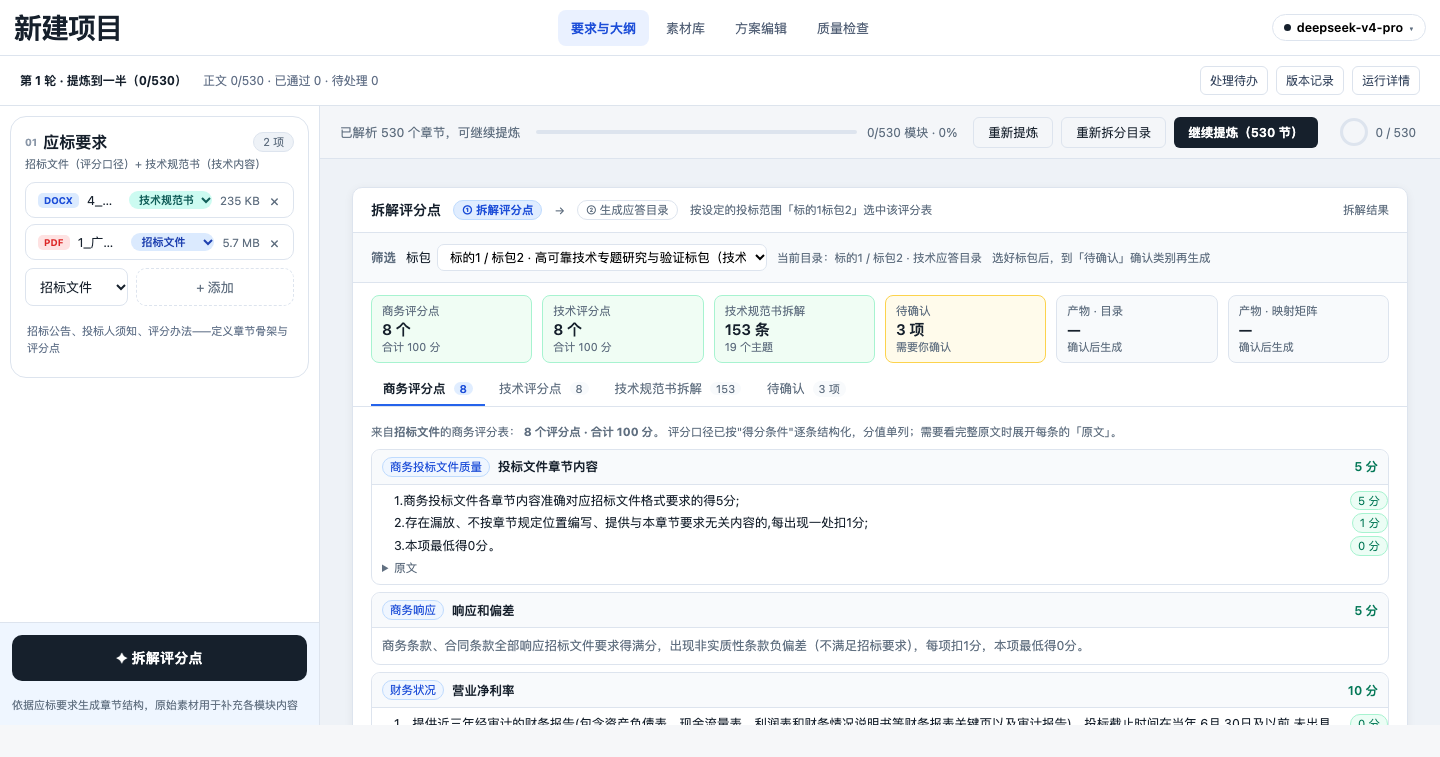
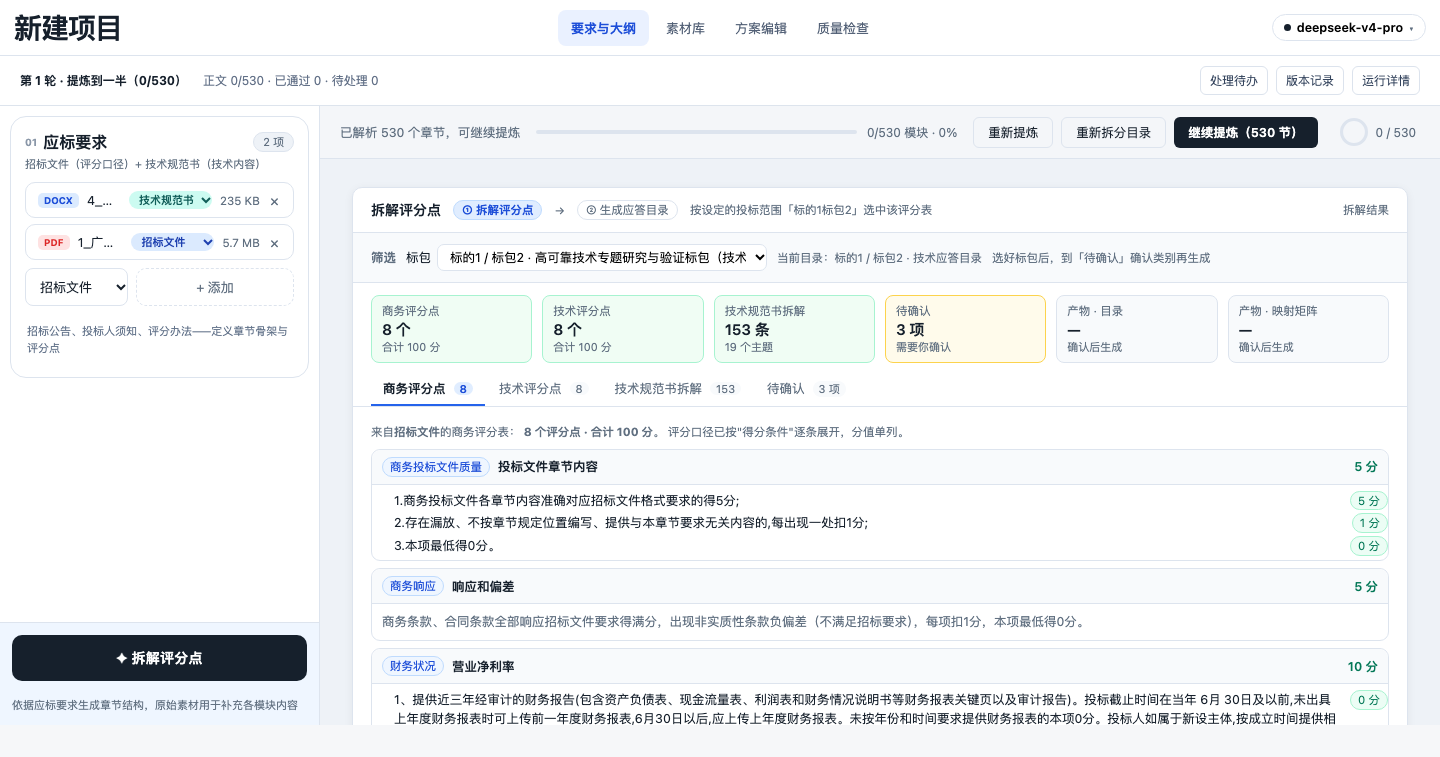
fix(panel): 评分口径直接结构化展示，去掉「原文」折叠
用户反馈：「不要原文折叠，老是搞这么复杂干什么？就直接把评分口径的内容结构化展示出来就可以了」

## 改法
- 删除评分点卡片里的 `<details>原文</details>` 折叠及其样式（`.pc-raw`）；
- 说明文案不再提「展开原文」；
- 结构保持不变：卡片头 = 评分因素 + 详细评审项 + 分值；正文 = 逐条得分条件 + 分值标签；
  解析不出多条款的（单句规则）就直接整段展示。

## 验证（CDP 真实面板）
```
16 张评分点卡片 ｜ 折叠元素 0 个 ｜ 页面已无"原文"字样
样例：商务投标文件质量 / 投标文件章节内容 / 5 分
      1. …准确对应招标文件格式要求的得5分;   [5 分]
      2. …每出现一处扣1分;                  [1 分]
      3. 本项最低得0分。                    [0 分]
__bootErrors = []
```
截图：`docs/screenshots/criterion-structured.png`
后端 748 passed / 前端 102 passed；资产版本 20261014-v33。

Changed region(s): [[0.25, 0.7292, 0.9688, 0.9723], [0.5625, 0.5469, 0.7812, 0.5773], [0.9375, 0.7596, 0.9688, 0.8203]]

diff --git a/frontend/assets/mode-outline.js b/frontend/assets/mode-outline.js
@@ -2,14 +2,14 @@
    抽成模块的目的：两段内联脚本有 90 个同名顶层标识符 + 18 个重复 DOM id，
    同页拼接必然互相覆盖；各自成为一个模块即各自一个作用域。
    本文件在抽取时**未改任何逻辑**。 */
-import { api } from './api.js?v=20261014-v32';
+import { api } from './api.js?v=20261014-v33';
 // 顶栏（项目名旁边那行「第 N 轮 · ...」）由共享壳 workspace.js 渲染。这里要把它
 // 改成**页面自己的真实状态**：checkpoint 的 stage 在提炼中/提炼完成后都停在
 // outline_review，只看它的话顶栏永远显示"待确认目录"（实测就是这个问题）。
 import { workspace, renderWorkspaceChrome,
          REQUIREMENT_ROLES, SELECTABLE_REQUIREMENT_ROLES, ROLE_LABEL_SHARED, ROLE_HINT_SHARED,
          roleMismatchWarning, inferRoleFromFilename,
-       } from './workspace.js?v=20261014-v32';
+       } from './workspace.js?v=20261014-v33';
 import { buildOutlineTree, isOrphanedRun, activeStages, instructionDirty, newOutlineId, outlineSubtreeRange,
          moveOutlineNode, indentOutlineNode, outdentOutlineNode,
          removeOutlineSubtree, insertSiblingAfter, insertChildOf,
@@ -23,7 +23,7 @@ import { buildOutlineTree, isOrphanedRun, activeStages, instructionDirty, newOut
          // 章节状态投影：素材库 / 方案编辑 / 覆盖矩阵共用同一份判定（不再各算各的）
          chapterStage, chapterBadges, filterChapters, chapterFilterCounts,
          CHAPTER_STAGE_LABELS, evidenceByChapter, expandVisibleWithAncestors
-       } from './workspace-model.mjs?v=20261014-v32';
+       } from './workspace-model.mjs?v=20261014-v33';
 
 const params = new URLSearchParams(location.search);
 // projectId **只取数字部分**：链接被误写成 `?projectId=19**(Cmd+Shift+R)`（连带说明文字）
@@ -109,7 +109,7 @@ document.head.insertAdjacentHTML('beforeend', `<style>
 // 左栏章节树：行标记与「方案编辑」共用一份（2026-10-13 左栏归一）。
 // 此前两侧各拼一套（.ot-row / .doc-outline-item），数据投影虽已共用，
 // 但标记重复维护会漂移（workspace-model.mjs 注释里记着 "#undefined" 那次）。
-import { chapterNode, chapterBadgesHtml as sharedBadgesHtml } from './chapter-tree.mjs?v=20261014-v32';
+import { chapterNode, chapterBadgesHtml as sharedBadgesHtml } from './chapter-tree.mjs?v=20261014-v33';
 const blocksEmpty = document.getElementById('blocks-empty');
 const sidebarToc  = document.getElementById('sidebar-toc');
 const ringFill    = document.getElementById('ring-fill');
@@ -2832,8 +2832,6 @@ async function openSplitReport({ auto = false, tab = '' } = {}) {
         <li><span class="pc-text">${escapeHtml(c.text)}</span>${
           c.score ? `<span class="pc-band ${c.cap ? 'cap' : ''}">${escapeHtml(c.score)}</span>` : ''}</li>`).join('')}
       </ul>` : `<div class="pc-body">${escapeHtml(pc.raw || '—')}</div>`}
-      ${pc.clauses.length > 1 ? `<details class="pc-raw"><summary>原文</summary>
-        <div class="pc-body">${escapeHtml(pc.raw)}</div></details>` : ''}
     </div>`;
   };
 
@@ -2844,7 +2842,7 @@ async function openSplitReport({ auto = false, tab = '' } = {}) {
     return `
       <div class="sr-note">来自<b>招标文件</b>的${catLabel}评分表：
         <b>${stat.count} 个评分点 · 合计 ${stat.score} 分</b>。
-        评分口径已按"得分条件"逐条结构化，分值单列；需要看完整原文时展开每条的「原文」。</div>
+        评分口径已按"得分条件"逐条展开，分值单列。</div>
       ${(stat.items || []).map(critCard).join('')}`;
   };
 
@@ -3102,9 +3100,6 @@ async function openSplitReport({ auto = false, tab = '' } = {}) {
     border-radius:999px;padding:0 7px;white-space:nowrap}
   .pc-band.cap{color:#92400e;background:#fffbeb;border-color:#fcd34d}
   .pc-body{padding:8px 10px;font-size:12.5px;color:var(--muted);line-height:1.6;word-break:break-word}
-  .pc-raw{margin:0 10px 8px}
-  .pc-raw>summary{cursor:pointer;font-size:11.5px;color:var(--muted)}
-  .pc-raw .pc-body{padding:6px 0}
   .sr-tab.disabled{opacity:.45;cursor:not-allowed}
   .sr-scope-chip{font-size:11.5px;font-weight:400;color:#1d4ed8;background:#eff6ff;
     border:1px solid #bfdbfe;border-radius:999px;padding:1px 8px;margin-left:4px}

diff --git a/frontend/workbench.html b/frontend/workbench.html
@@ -4,7 +4,7 @@
     <meta charset="UTF-8" />
     <meta name="viewport" content="width=device-width, initial-scale=1.0" />
     <title>智能应标 · 材料撰写</title>
-    <link rel="stylesheet" href="./assets/styles.css?v=20261014-v32" />
+    <link rel="stylesheet" href="./assets/styles.css?v=20261014-v33" />
     <style>
       /* Outline pane */
       .workspace-shell .outline-pane {
@@ -2055,7 +2055,7 @@
     </style>
     <!-- Markdown 渲染（用于预览模式） -->
     <script src="https://cdn.jsdelivr.net/npm/marked@12.0.0/marked.min.js"></script>
-  <link rel="stylesheet" href="./assets/workspace.css?v=20261014-v32" />
+  <link rel="stylesheet" href="./assets/workspace.css?v=20261014-v33" />
   </head>
   <body>
     <div class="workspace-shell">
@@ -2488,18 +2488,18 @@
       </main>
     </div>
 
-    <script type="module" src="./assets/workbench.js?v=20261014-v32"></script>
+    <script type="module" src="./assets/workbench.js?v=20261014-v33"></script>
     <script type="module">
-      import { GenerateSession } from './assets/generate-session.js?v=20261014-v32';
-      import { initContextPanel } from './assets/context-panel.js?v=20261014-v32';
-      import { api } from './assets/api.js?v=20261014-v32';
-      import { request as workspaceRequest, refreshWorkspace, workspace, confirmChapterAction } from './assets/workspace.js?v=20261014-v32';
+      import { GenerateSession } from './assets/generate-session.js?v=20261014-v33';
+      import { initContextPanel } from './assets/context-panel.js?v=20261014-v33';
+      import { api } from './assets/api.js?v=20261014-v33';
+      import { request as workspaceRequest, refreshWorkspace, workspace, confirmChapterAction } from './assets/workspace.js?v=20261014-v33';
       // 提炼字段枚举 + 素材依据的**渲染片段**与 project-init 共用（见 workspace-model.mjs 注释）：
       // 性质徽标与出处行的实现在那边只有一份，两个页面不再各写一套（曾经因此漂移出
       // "每行显示 #undefined"）。
       import { CONSTRAINT_LEVELS, constraintLevelLabel,
                evidenceKindBadgeHtml, evidenceSourceLineHtml, evidenceSnippet,
-               chapterStage, CHAPTER_STAGE_LABELS } from './assets/workspace-model.mjs?v=20261014-v32';
+               chapterStage, CHAPTER_STAGE_LABELS } from './assets/workspace-model.mjs?v=20261014-v33';
       initContextPanel();
 
       // 素材抽屉：默认收起（写作时右栏就是正文本身），点工具栏「素材 n ▸」打开；
@@ -5563,6 +5563,6 @@
       })();
     })();
     </script>
-  <script type="module" src="./assets/workspace.js?v=20261014-v32"></script>
+  <script type="module" src="./assets/workspace.js?v=20261014-v33"></script>
   </body>
 </html>

diff --git a/frontend/project-init.html b/frontend/project-init.html
@@ -4,7 +4,7 @@
     <meta charset="UTF-8" />
     <meta name="viewport" content="width=device-width, initial-scale=1.0" />
     <title>AiBidding · Workbench Init State</title>
-    <link rel="stylesheet" href="./assets/styles.css?v=20261014-v32" />
+    <link rel="stylesheet" href="./assets/styles.css?v=20261014-v33" />
     <style>
 /* ── 三栏布局 ── */
 .init-layout {
@@ -889,7 +889,7 @@ body[data-view="matching"] .match-detail { display: block; }
   background: #eff6ff;
 }
     </style>
-  <link rel="stylesheet" href="./assets/workspace.css?v=20261014-v32" />
+  <link rel="stylesheet" href="./assets/workspace.css?v=20261014-v33" />
   </head>
   <body data-view="outline">
     <div class="workspace-shell">
@@ -1085,14 +1085,14 @@ body[data-view="matching"] .match-detail { display: block; }
     </div>
 
     <script type="module">
-import { api } from './assets/api.js?v=20261014-v32';
+import { api } from './assets/api.js?v=20261014-v33';
 // 顶栏（项目名旁边那行「第 N 轮 · ...」）由共享壳 workspace.js 渲染。这里要把它
 // 改成**页面自己的真实状态**：checkpoint 的 stage 在提炼中/提炼完成后都停在
 // outline_review，只看它的话顶栏永远显示"待确认目录"（实测就是这个问题）。
 import { workspace, renderWorkspaceChrome,
          REQUIREMENT_ROLES, ROLE_LABEL_SHARED, ROLE_HINT_SHARED,
          roleMismatchWarning, inferRoleFromFilename,
-       } from './assets/workspace.js?v=20261014-v32';
+       } from './assets/workspace.js?v=20261014-v33';
 import { buildOutlineTree, isOrphanedRun, activeStages, instructionDirty, newOutlineId, outlineSubtreeRange,
          moveOutlineNode, indentOutlineNode, outdentOutlineNode,
          removeOutlineSubtree, insertSiblingAfter, insertChildOf,
@@ -1106,7 +1106,7 @@ import { buildOutlineTree, isOrphanedRun, activeStages, instructionDirty, newOut
          // 章节状态投影：素材库 / 方案编辑 / 覆盖矩阵共用同一份判定（不再各算各的）
          chapterStage, chapterBadges, filterChapters, chapterFilterCounts,
          CHAPTER_STAGE_LABELS, evidenceByChapter, expandVisibleWithAncestors
-       } from './assets/workspace-model.mjs?v=20261014-v32';
+       } from './assets/workspace-model.mjs?v=20261014-v33';
 
 const params = new URLSearchParams(location.search);
 const projectId = params.get('projectId');
@@ -4945,6 +4945,6 @@ bindMatchDetailActions();
   });
 })();
     </script>
-  <script type="module" src="./assets/workspace.js?v=20261014-v32"></script>
+  <script type="module" src="./assets/workspace.js?v=20261014-v33"></script>
   </body>
 </html>

diff --git a/frontend/three-mode.html b/frontend/three-mode.html
@@ -4,7 +4,7 @@
     <meta charset="UTF-8" />
     <meta name="viewport" content="width=device-width, initial-scale=1.0" />
     <title>AiBidding · Workbench Init State</title>
-    <link rel="stylesheet" href="./assets/styles.css?v=20261014-v32" />
+    <link rel="stylesheet" href="./assets/styles.css?v=20261014-v33" />
     <style>
 /* ── 三栏布局 ── */
 .init-layout {
@@ -3177,7 +3177,7 @@ body[data-view="matching"] .match-detail { display: block; }
   body[data-view="editor"] .ws-editor-layout { flex: 1 1 auto; min-height: 0; }
 
 </style>
-  <link rel="stylesheet" href="./assets/workspace.css?v=20261014-v32" />
+  <link rel="stylesheet" href="./assets/workspace.css?v=20261014-v33" />
   </head>
   <body data-view="outline" data-modes="outline,matching,editor">
     <div class="workspace-shell">
@@ -3866,16 +3866,16 @@ body[data-view="matching"] .match-detail { display: block; }
         if (skel) skel.hidden = true;
       }, 6000);
     </script>
-    <script type="module" src="./assets/workbench.js?v=20261014-v32"></script>
-    <script type="module" src="./assets/mode-dispatch.js?v=20261014-v32"></script>
+    <script type="module" src="./assets/workbench.js?v=20261014-v33"></script>
+    <script type="module" src="./assets/mode-dispatch.js?v=20261014-v33"></script>
     <!-- 动态 import：失败可捕获并上报（静态 import 失败无法捕获，会让整页静默不执行） -->
     <script type="module">
-      for (const mod of ['./assets/mode-outline.js?v=20261014-v32',
-                        './assets/mode-editor.js?v=20261014-v32']) {
+      for (const mod of ['./assets/mode-outline.js?v=20261014-v33',
+                        './assets/mode-editor.js?v=20261014-v33']) {
         try { await import(mod); }
         catch (err) { window.__bootErrors.push(`模块加载失败 ${mod}：${err?.message || err}`); }
       }
     </script>
-  <script type="module" src="./assets/workspace.js?v=20261014-v32"></script>
+  <script type="module" src="./assets/workspace.js?v=20261014-v33"></script>
   </body>
 </html>

diff --git a/frontend/assets/mode-editor.js b/frontend/assets/mode-editor.js
@@ -2,12 +2,12 @@
    抽成模块的目的：两段内联脚本有 90 个同名顶层标识符 + 18 个重复 DOM id，
    同页拼接必然互相覆盖；各自成为一个模块即各自一个作用域。
    本文件在抽取时**未改任何逻辑**。 */
-import { GenerateSession } from './generate-session.js?v=20261014-v32';
+import { GenerateSession } from './generate-session.js?v=20261014-v33';
 // 左栏章节树：与「要求与大纲 / 素材库」共用一份行标记（2026-10-13 左栏归一）
-import { chapterNode, renderChapterTree } from './chapter-tree.mjs?v=20261014-v32';
-import { initContextPanel } from './context-panel.js?v=20261014-v32';
-import { api } from './api.js?v=20261014-v32';
-import { request as workspaceRequest, refreshWorkspace, workspace, confirmChapterAction } from './workspace.js?v=20261014-v32';
+import { chapterNode, renderChapterTree } from './chapter-tree.mjs?v=20261014-v33';
+import { initContextPanel } from './context-panel.js?v=20261014-v33';
+import { api } from './api.js?v=20261014-v33';
+import { request as workspaceRequest, refreshWorkspace, workspace, confirmChapterAction } from './workspace.js?v=20261014-v33';
 
 // ── 本章要求 bar 的应答条目缓存 ──────────────────────────────
 // 必须**声明在模块最前面**：它原本声明在文件中部，而模块之间存在循环依赖
@@ -20,7 +20,7 @@ let responseItemsByBlock = {};
 // "每行显示 #undefined"）。
 import { CONSTRAINT_LEVELS, constraintLevelLabel,
          evidenceKindBadgeHtml, evidenceSourceLineHtml, evidenceSnippet,
-         chapterStage, CHAPTER_STAGE_LABELS } from './workspace-model.mjs?v=20261014-v32';
+         chapterStage, CHAPTER_STAGE_LABELS } from './workspace-model.mjs?v=20261014-v33';
 initContextPanel();
 
 // 素材抽屉：默认收起（写作时右栏就是正文本身），点工具栏「素材 n ▸」打开；

diff --git a/frontend/assets/workbench.js b/frontend/assets/workbench.js
@@ -1,12 +1,12 @@
-import {workspace, subscribe, refreshWorkspace, workspaceUrl, confirmChapterAction, openDialog, showHistory, statusLabels, esc} from './workspace.js?v=20261014-v32';
+import {workspace, subscribe, refreshWorkspace, workspaceUrl, confirmChapterAction, openDialog, showHistory, statusLabels, esc} from './workspace.js?v=20261014-v33';
 // 章节状态/依据徽标与「素材库」共用一份投影（同一棵目录树，四个环节都一样）
-import {chapterBadges, parseEvidence} from './workspace-model.mjs?v=20261014-v32';
+import {chapterBadges, parseEvidence} from './workspace-model.mjs?v=20261014-v33';
 // 左栏章节树：**三个模式共用一份**行标记（2026-10-13 归一）。
 // 此前编辑器侧自己拼 `.doc-outline-item`、大纲侧拼 `.ot-row`，是两套实现；
 // 数据投影本就共用（workspace-model），这里把标记也收敛掉。
 // 行上仍保留 `doc-outline-item` 类与 data-block-id 属性，兼容 mode-editor.js 里
 // 既有的 10 处选择器（改动面最小化）。
-import {chapterNode, renderChapterTree, chapterBadgesHtml} from './chapter-tree.mjs?v=20261014-v32';
+import {chapterNode, renderChapterTree, chapterBadgesHtml} from './chapter-tree.mjs?v=20261014-v33';
 // 左栏树的**唯一宿主**：由 mode-dispatch 在模式切换时把 #blocks-list 搬到当前模式的
 // 左栏位置。归一前这里是 `.doc-outline`，与大纲侧 `#blocks-list` 各渲一棵（实测
 // .ot-node 有 120 个 = 两棵各 60）。动态解析而不是加载时捕获，就是为了让宿主可搬。

diff --git a/frontend/diff-review.html b/frontend/diff-review.html
@@ -4,8 +4,8 @@
     <meta charset="UTF-8" />
     <meta name="viewport" content="width=device-width, initial-scale=1.0" />
     <title>AiBidding · Diff Review</title>
-    <link rel="stylesheet" href="./assets/styles.css?v=20261014-v32" />
-  <link rel="stylesheet" href="./assets/workspace.css?v=20261014-v32" />
+    <link rel="stylesheet" href="./assets/styles.css?v=20261014-v33" />
+  <link rel="stylesheet" href="./assets/workspace.css?v=20261014-v33" />
   </head>
   <body>
     <div class="workspace-shell">
@@ -98,7 +98,7 @@
     </div>
 
     <script type="module">
-      import { api } from './assets/api.js?v=20261014-v32';
+      import { api } from './assets/api.js?v=20261014-v33';
 
       const params    = new URLSearchParams(location.search);
       const projectId = params.get('projectId');
@@ -324,6 +324,6 @@
 
       loadRevisions();
     </script>
-  <script type="module" src="./assets/workspace.js?v=20261014-v32"></script>
+  <script type="module" src="./assets/workspace.js?v=20261014-v33"></script>
   </body>
 </html>

diff --git a/frontend/review.html b/frontend/review.html
@@ -4,9 +4,9 @@
     <meta charset="UTF-8" />
     <meta name="viewport" content="width=device-width, initial-scale=1.0" />
     <title>AiBidding · 质量检查</title>
-    <link rel="stylesheet" href="./assets/styles.css?v=20261014-v32" />
-    <link rel="stylesheet" href="./assets/review.css?v=20261014-v32" />
-  <link rel="stylesheet" href="./assets/workspace.css?v=20261014-v32" />
+    <link rel="stylesheet" href="./assets/styles.css?v=20261014-v33" />
+    <link rel="stylesheet" href="./assets/review.css?v=20261014-v33" />
+  <link rel="stylesheet" href="./assets/workspace.css?v=20261014-v33" />
   </head>
   <body>
     <div class="workspace-shell">
@@ -76,7 +76,7 @@
       </main>
     </div>
 
-    <script type="module" src="./assets/review.js?v=20261014-v32"></script>
-  <script type="module" src="./assets/workspace.js?v=20261014-v32"></script>
+    <script type="module" src="./assets/review.js?v=20261014-v33"></script>
+  <script type="module" src="./assets/workspace.js?v=20261014-v33"></script>
   </body>
 </html>

diff --git a/frontend/assets/workspace.js b/frontend/assets/workspace.js
@@ -1,11 +1,11 @@
-import {projectChapters, summarize, statusLabels, stageLabels, activeStages, runtimeStages, isOrphanedRun, isExtractDone, diffHtml, escapeHtml as esc} from './workspace-model.mjs?v=20261014-v32';
+import {projectChapters, summarize, statusLabels, stageLabels, activeStages, runtimeStages, isOrphanedRun, isExtractDone, diffHtml, escapeHtml as esc} from './workspace-model.mjs?v=20261014-v33';
 export {statusLabels, esc};
 // 材料角色体系再导出：project-init 的角色下拉与"分类纠错提示"都从这里取
 export {
   REQUIREMENT_ROLES, SELECTABLE_REQUIREMENT_ROLES, SOURCE_ROLES, ALL_MATERIAL_ROLES,
   ROLE_LABEL as ROLE_LABEL_SHARED, ROLE_HINT as ROLE_HINT_SHARED,
   isRequirementRole, inferRoleFromFilename, roleMismatchWarning,
-} from './material-roles.mjs?v=20261014-v32';
+} from './material-roles.mjs?v=20261014-v33';
 export async function request(url, options) {
   const response = await fetch(url, options);
   const data = await response.json().catch(() => ({}));

diff --git a/frontend/assets/review.js b/frontend/assets/review.js
@@ -1,5 +1,5 @@
-import {workspace, subscribe, workspaceUrl, request, refreshWorkspace, confirmChapterAction, showHistory, openDialog, statusLabels, esc} from './workspace.js?v=20261014-v32';
-import {summarize, diffHtml} from './workspace-model.mjs?v=20261014-v32';
+import {workspace, subscribe, workspaceUrl, request, refreshWorkspace, confirmChapterAction, showHistory, openDialog, statusLabels, esc} from './workspace.js?v=20261014-v33';
+import {summarize, diffHtml} from './workspace-model.mjs?v=20261014-v33';
 const $ = id => document.getElementById(id);
 let activeId = new URLSearchParams(location.search).get('blockId');
 let mode = 'current', visibleLimit = 100;

diff --git a/frontend/projects.html b/frontend/projects.html
@@ -4,7 +4,7 @@
     <meta charset="UTF-8" />
     <meta name="viewport" content="width=device-width, initial-scale=1.0" />
     <title>智能应标 · 项目列表</title>
-    <link rel="stylesheet" href="./assets/styles.css?v=20261014-v32" />
+    <link rel="stylesheet" href="./assets/styles.css?v=20261014-v33" />
     <style>
       /* ── 页头 ── */
       .app-header {
@@ -744,7 +744,7 @@
     </div>
 
     <script type="module">
-      import { api } from './assets/api.js?v=20261014-v32';
+      import { api } from './assets/api.js?v=20261014-v33';
 
       // ── 状态 ──
       const reqFiles = []; // {file, name, size, ext}

diff --git a/frontend/assets/mode-dispatch.js b/frontend/assets/mode-dispatch.js
@@ -10,8 +10,8 @@
  * ⚠ 注意别和编辑器工具栏里的 `#ced-mode-switch`（编辑/预览）搞混：
  * 那个是**编辑器内部**的视图切换，与页面三模式无关。
  */
-import { DEFAULT_MODE, isValidMode } from './workbench-modes.mjs?v=20261014-v32';
-import { renderWorkspaceChrome } from './workspace.js?v=20261014-v32';
+import { DEFAULT_MODE, isValidMode } from './workbench-modes.mjs?v=20261014-v33';
+import { renderWorkspaceChrome } from './workspace.js?v=20261014-v33';
 
 const VIEW_KEY = 'aibidding:workspace-view';
 
